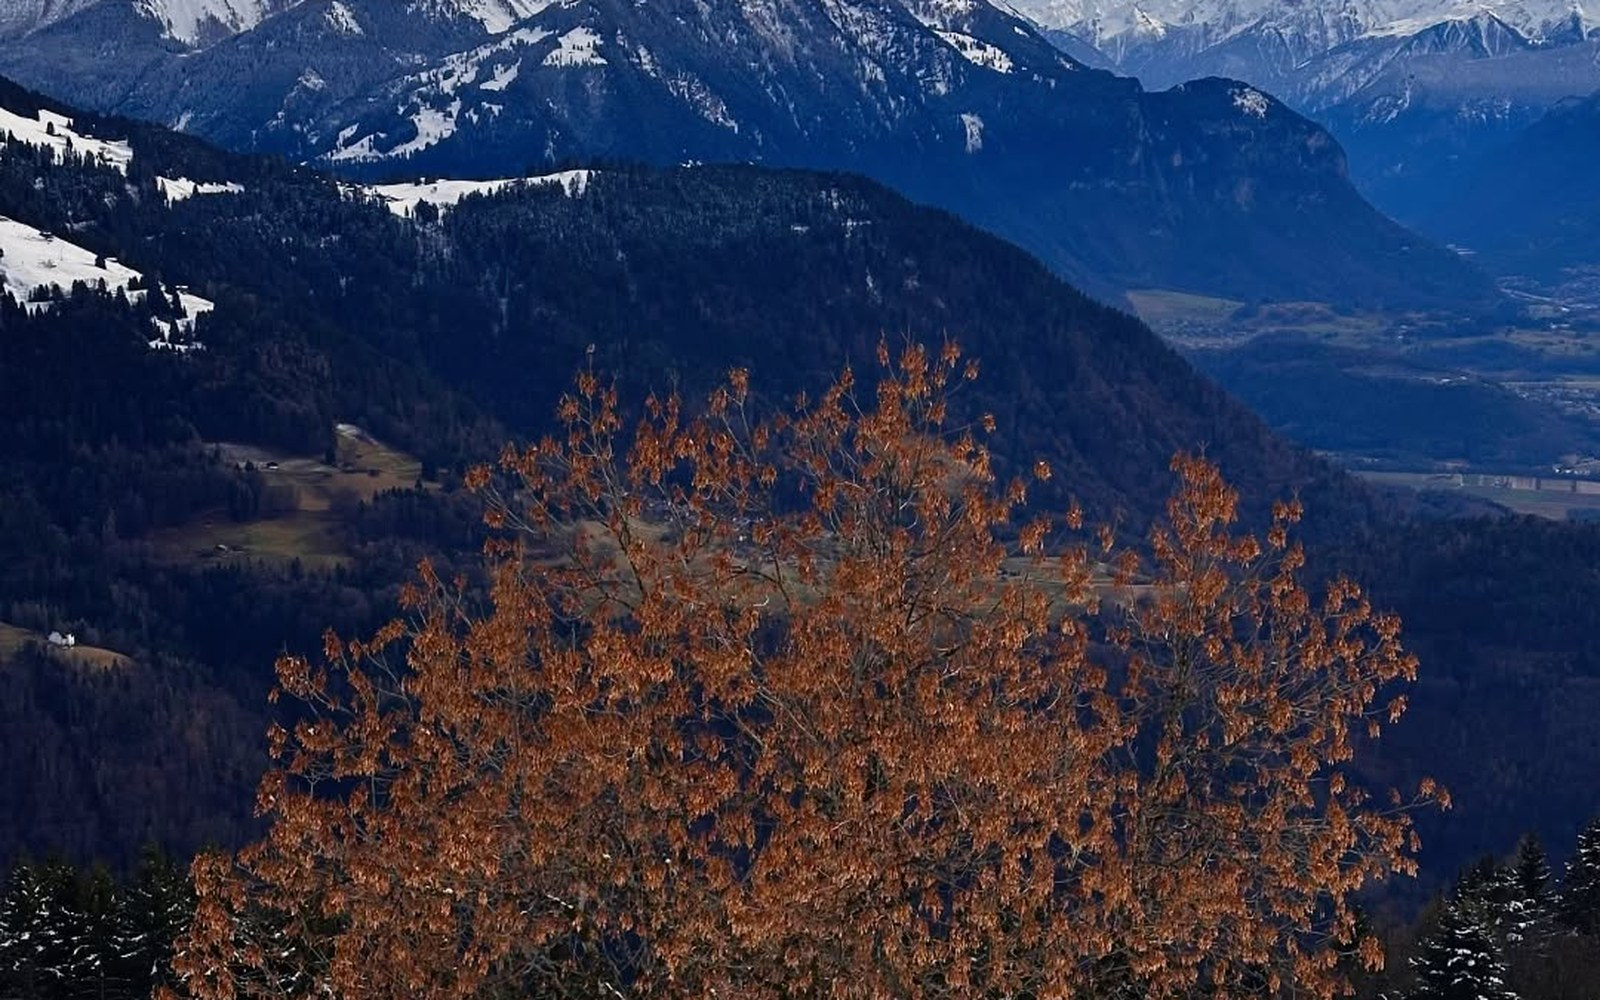
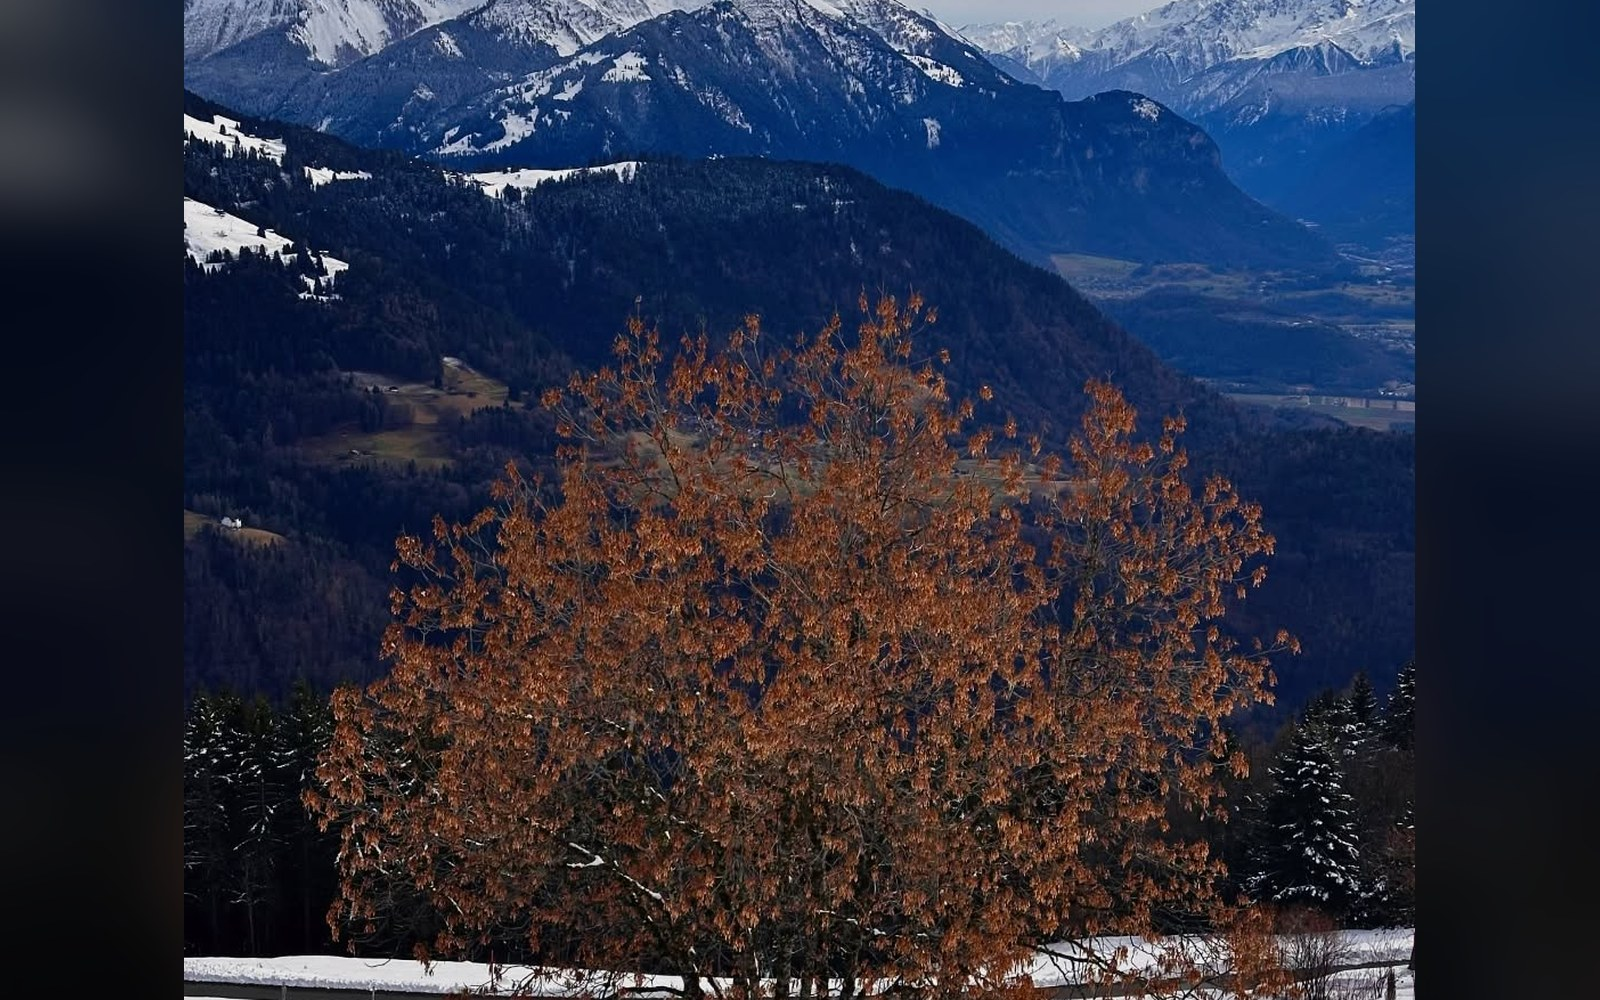
Zoom out mountain carousel photos, drop caption overlays
Re-crop the 3 Leysin/Alps mountain photos to show significantly more
of each scene (was cropping ~50% of the source vertically to fill the
carousel's 8:5 frame; now ~65%, with a softly blurred fill of the same
photo along the narrow left/right margins instead of a hard crop or
white edge). Also remove the caption text/gradient bar from every
carousel slide — the images read fine without them.

Claude-Session: https://claude.ai/code/session_01AeJrEVMtW5rd8cFfpUzryd

diff --git a/index.html b/index.html
@@ -108,27 +108,22 @@
 
             <li class="carousel-slide">
               <img src="assets/campus/caux-palace-aerial.jpg" alt="Aerial view of the Caux Palace campus among the trees, with the funicular running down the hillside">
-              <p class="carousel-caption">The Caux Palace campus, seen from above</p>
             </li>
 
             <li class="carousel-slide">
               <img src="assets/campus/caux-palace-sunset.jpg" alt="The Caux Palace at sunset, overlooking Lake Geneva and the lights of the towns below">
-              <p class="carousel-caption">Caux at sunset — Lake Geneva laid out below</p>
             </li>
 
             <li class="carousel-slide">
               <img src="assets/campus/leysin-red-sunset.jpg" alt="A dramatic red sunset sky over the mountains above Leysin, with the village visible below">
-              <p class="carousel-caption">Leysin under a burning sky</p>
             </li>
 
             <li class="carousel-slide">
               <img src="assets/campus/leysin-alps-valley.jpg" alt="Snow-capped Alps and a forested valley seen from above Leysin">
-              <p class="carousel-caption">The valley view from up the mountain</p>
             </li>
 
             <li class="carousel-slide">
               <img src="assets/campus/leysin-alps-autumn-tree.jpg" alt="Snow-dusted mountain peaks behind an autumn tree, overlooking the Rhone valley">
-              <p class="carousel-caption">Alpine views right outside campus</p>
             </li>
 
           </ul>

diff --git a/css/styles.css b/css/styles.css
@@ -263,18 +263,6 @@ h1, h2, h3 { font-family: var(--font-display); font-weight: 600; line-height: 1.
   width: 100%;
   height: 100%;
 }
-.carousel-caption {
-  position: absolute;
-  left: 0;
-  right: 0;
-  bottom: 0;
-  margin: 0;
-  padding: 18px 22px;
-  font-size: 0.95rem;
-  font-weight: 500;
-  background: linear-gradient(0deg, rgba(10, 26, 48, 0.75), rgba(10, 26, 48, 0));
-}
-
 .carousel-arrow {
   position: absolute;
   top: 50%;
@@ -583,7 +571,6 @@ h1, h2, h3 { font-family: var(--font-display); font-weight: 600; line-height: 1.
   .carousel-arrow { width: 38px; height: 38px; }
   .carousel-arrow-prev { left: 10px; }
   .carousel-arrow-next { right: 10px; }
-  .carousel-caption { font-size: 0.85rem; padding: 14px 16px; }
 
   .ranking-card { flex-direction: column; align-items: flex-start; text-align: left; gap: 10px; padding: 22px 24px; }
   .ranking-number { font-size: 2.6rem; }
